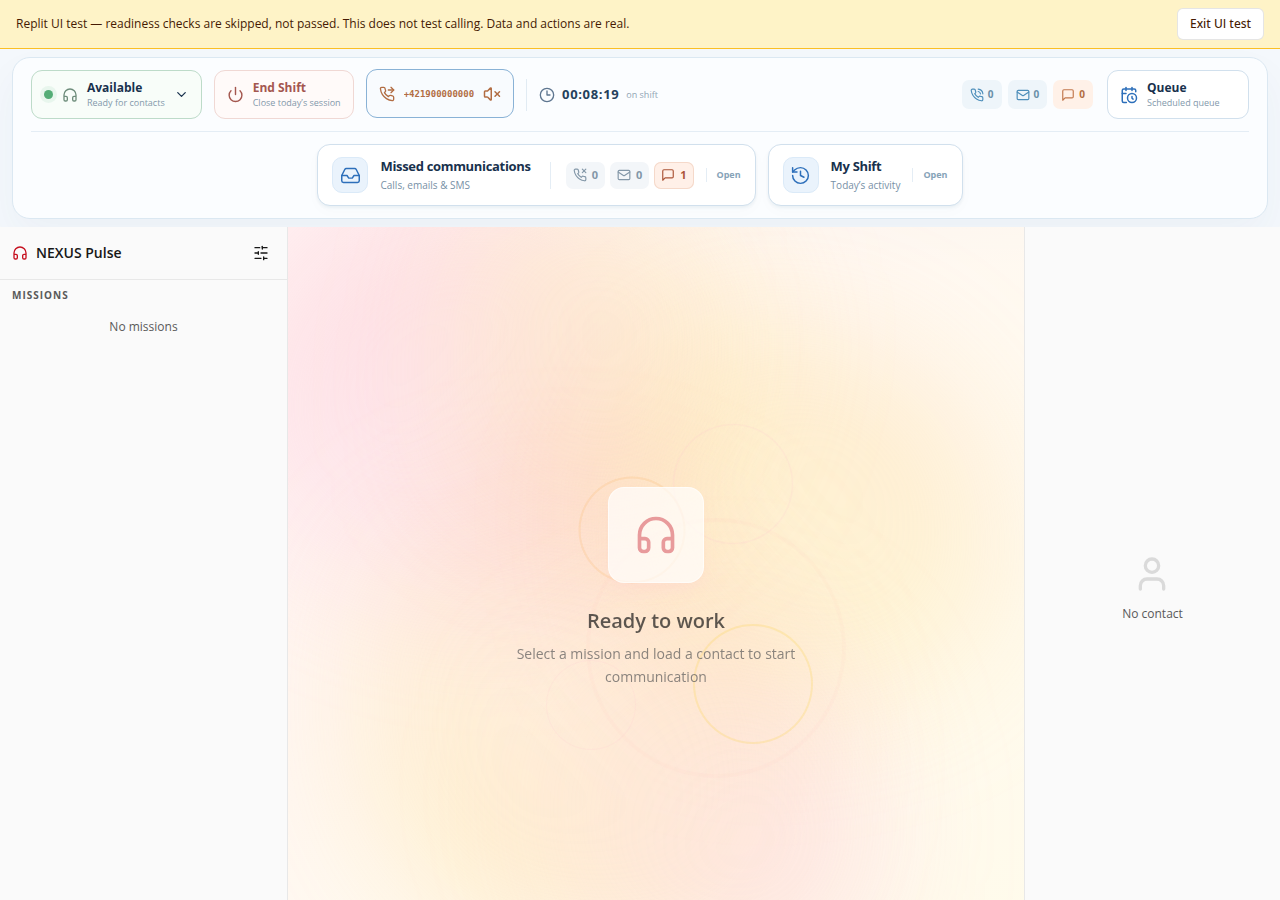
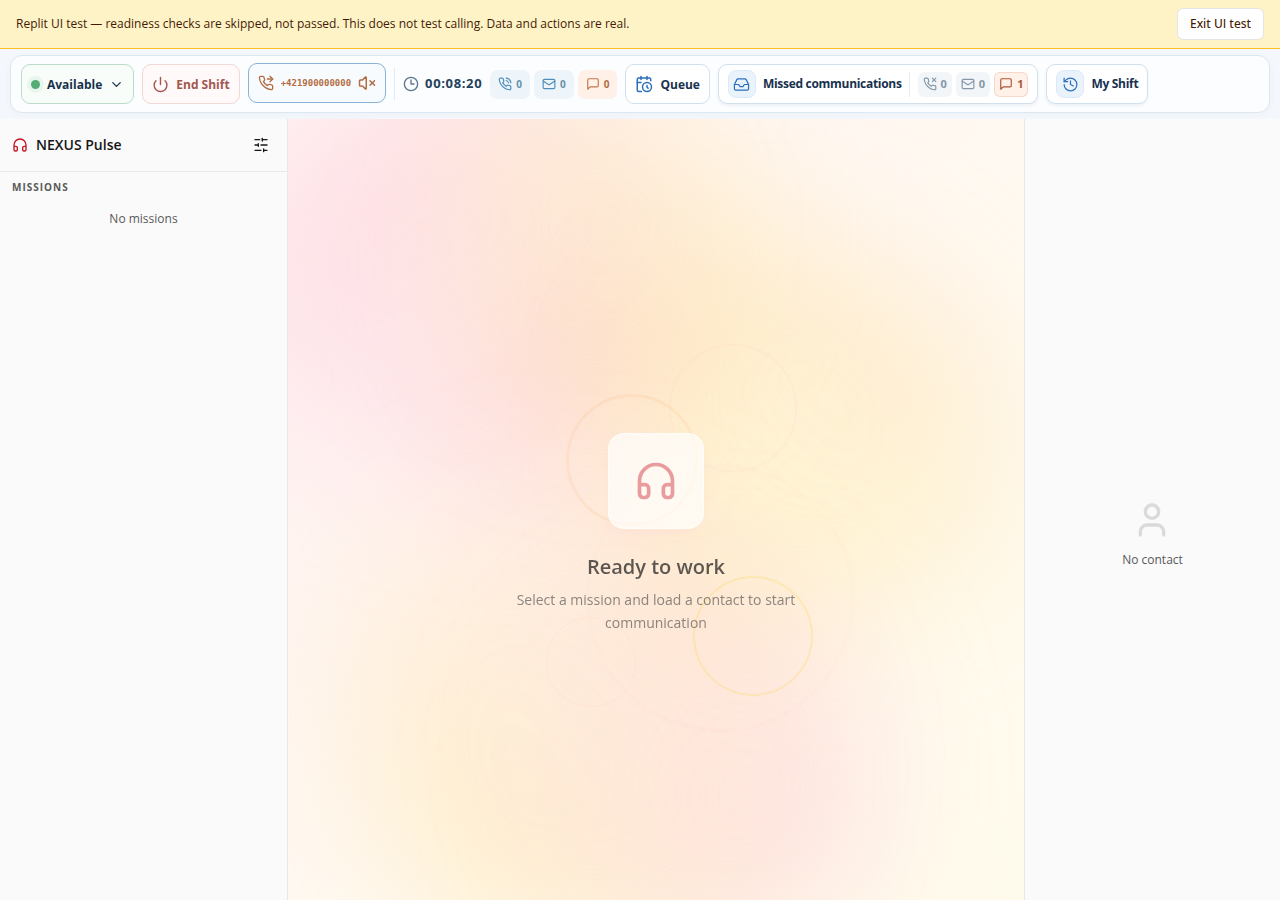
Update pulse toolbar styling and add supporting documentation and assets
Replit-Commit-Author: Agent

diff --git a/client/src/components/agent/agent-toolbar-unified.css b/client/src/components/agent/agent-toolbar-unified.css
@@ -1,24 +1,24 @@
 .agent-toolbar-unified {
   flex: none;
   width: 100%;
-  padding: 8px 12px;
+  padding: 6px 10px;
   background: #f4f8fc;
   color: #18314d;
   font-family: "Open Sans", sans-serif;
 }
 .agent-toolbar-unified *, .agent-toolbar-unified *::before, .agent-toolbar-unified *::after { box-sizing: border-box; }
-.agent-toolbar-unified .pta-toolbar { display: flex; align-items: center; gap: 12px; max-width: 100%; }
-.agent-toolbar-unified .pta-surface { width: 100%; padding: 12px 18px; background: #fbfdff; border: 1px solid #dbe8f2; border-radius: 18px; box-shadow: 0 18px 40px #244e700b; }
-.agent-toolbar-unified .pta-control-row { flex-wrap: wrap; padding-bottom: 12px; border-bottom: 1px solid #e4edf5; }
+.agent-toolbar-unified .pta-surface { display: flex; flex-wrap: wrap; align-items: center; justify-content: flex-start; gap: 8px; width: 100%; padding: 8px 10px; background: #fbfdff; border: 1px solid #dbe8f2; border-radius: 12px; box-shadow: 0 2px 8px #244e7008; }
+.agent-toolbar-unified .pta-control-row,
+.agent-toolbar-unified .pta-shortcuts { display: contents; }
 .agent-toolbar-unified .pta-control,
 .agent-toolbar-unified .pta-queue,
-.agent-toolbar-unified .pta-icon-control { min-height: 49px; display: inline-flex; align-items: center; gap: 9px; padding: 8px 12px; border: 1px solid #d1e0ed; border-radius: 11px; background: #fff; color: #18314d; font-family: inherit; cursor: pointer; text-align: left; transition: border-color .16s, background .16s, transform .16s; }
+.agent-toolbar-unified .pta-icon-control { min-height: 40px; display: inline-flex; align-items: center; gap: 7px; padding: 6px 9px; border: 1px solid #d1e0ed; border-radius: 9px; background: #fff; color: #18314d; font-family: inherit; cursor: pointer; text-align: left; transition: border-color .16s, background .16s, transform .16s; }
 .agent-toolbar-unified .pta-control:hover,
 .agent-toolbar-unified .pta-queue:hover,
 .agent-toolbar-unified .pta-icon-control:hover { border-color: #89b2d6; background: #f8fbfe; transform: translateY(-1px); }
 .agent-toolbar-unified button:focus-visible { outline: 3px solid #8bbce1; outline-offset: 2px; }
 .agent-toolbar-unified .pta-status { border-color: #bddbc9; background: #f8fdf9; }
-.agent-toolbar-unified .pta-status-icon { display: inline-flex; color: #6e8d7b; }
+.agent-toolbar-unified .pta-status-icon { display: none; }
 .agent-toolbar-unified .pta-status-icon svg { width: 16px; height: 16px; }
 .agent-toolbar-unified .pta-status-dot { width: 9px; height: 9px; flex: none; background: #54ad76; border-radius: 50%; box-shadow: 0 0 0 4px #e8f6ed; }
 .agent-toolbar-unified .pta-status-busy { border-color: #ebc6c1; background: #fff9f8; }
@@ -29,7 +29,7 @@
 .agent-toolbar-unified .pta-status-offline .pta-status-dot { background: #8397a8; box-shadow: 0 0 0 4px #edf1f4; }
 .agent-toolbar-unified .pta-end { color: #a4574f; border-color: #f0d8d4; background: #fffaf9; }
 .agent-toolbar-unified .pta-end:hover { background: #fff3f0; border-color: #dfada6; }
-.agent-toolbar-unified .pta-icon-control { width: auto; min-width: 45px; justify-content: center; color: #647d93; }
+.agent-toolbar-unified .pta-icon-control { width: auto; min-width: 38px; justify-content: center; color: #647d93; }
 .agent-toolbar-unified .pta-ringtone-on { color: #42845d; border-color: #bddbc9; }
 .agent-toolbar-unified .pta-forwarding { color: #b26d43; border-color: #efcdb8; }
 .agent-toolbar-unified .pta-forwarding-number { max-width: 86px; overflow: hidden; text-overflow: ellipsis; white-space: nowrap; font: 600 9px ui-monospace, monospace; }
@@ -37,33 +37,33 @@
 .agent-toolbar-unified .pta-control-copy { display: flex; flex-direction: column; gap: 2px; white-space: nowrap; }
 .agent-toolbar-unified .pta-control-copy strong { font-size: 12px; line-height: 15px; font-weight: 700; }
 .agent-toolbar-unified .pta-control-copy span { color: #8399ab; font-size: 9px; line-height: 12px; }
-.agent-toolbar-unified .pta-timer { display: inline-flex; align-items: center; gap: 7px; min-width: 120px; color: #5e7690; }
+.agent-toolbar-unified .pta-timer { display: inline-flex; align-items: center; gap: 6px; color: #5e7690; }
 .agent-toolbar-unified .pta-timer strong { color: #24415c; font-size: 13px; letter-spacing: .05em; font-variant-numeric: tabular-nums; }
 .agent-toolbar-unified .pta-timer span { color: #91a5b5; font-size: 9px; }
-.agent-toolbar-unified .pta-micro-counts { display: flex; align-items: center; gap: 6px; margin-left: auto; }
+.agent-toolbar-unified .pta-micro-counts { display: flex; align-items: center; gap: 4px; margin: 0; }
 .agent-toolbar-unified .pta-micro-counts > span { display: inline-flex; align-items: center; gap: 4px; padding: 7px 8px; color: #6990a9; background: #eef5fa; border-radius: 7px; font-size: 10px; }
 .agent-toolbar-unified .pta-micro-counts span svg { color: #4d8eba; }
 .agent-toolbar-unified .pta-micro-pending { color: #b26d43 !important; background: #fff1e8 !important; }
 .agent-toolbar-unified .pta-micro-pending svg { color: #c2784d !important; }
 .agent-toolbar-unified .pta-quota-blocked { color: #a4574f !important; opacity: .55; box-shadow: inset 0 0 0 1px #e7bdb7; }
-.agent-toolbar-unified .pta-queue { margin-left: 2px; min-width: 142px; position: relative; }
+.agent-toolbar-unified .pta-queue { position: relative; }
 .agent-toolbar-unified .pta-queue > svg { color: #2d6fba; }
 .agent-toolbar-unified .pta-queue > b { min-width: 24px; padding: 3px 6px; color: #fff; background: #c9584d; border-radius: 9px; text-align: center; font-size: 10px; }
 .agent-toolbar-unified .pta-queue-overdue { border-color: #e7b5af; }
 .agent-toolbar-unified .pta-urgency-dot { position: absolute; width: 9px; height: 9px; right: -3px; top: -3px; border: 2px solid #fff; border-radius: 50%; background: #c9584d; animation: pta-urgency 1.5s ease-in-out infinite; }
-.agent-toolbar-unified .pta-shortcuts { display: flex; flex-wrap: wrap; align-items: stretch; justify-content: center; gap: 12px; padding-top: 12px; }
-.agent-toolbar-unified .pta-button { display: inline-flex; align-items: center; gap: 12px; min-height: 62px; padding: 11px 14px; color: #18314d; background: #fff; border: 1px solid #d1e0ed; border-radius: 13px; box-shadow: 0 2px 3px #244e7010, 0 5px 15px #244e7005; cursor: pointer; text-align: left; font-family: inherit; transition: border-color .16s, box-shadow .16s, transform .16s, background .16s; }
+.agent-toolbar-unified .pta-button { display: inline-flex; align-items: center; gap: 7px; min-height: 40px; max-width: 100%; padding: 5px 9px; color: #18314d; background: #fff; border: 1px solid #d1e0ed; border-radius: 9px; box-shadow: 0 2px 3px #244e7010; cursor: pointer; text-align: left; font-family: inherit; transition: border-color .16s, box-shadow .16s, transform .16s, background .16s; }
 .agent-toolbar-unified .pta-button:hover { border-color: #89b2d6; background: #fbfdff; box-shadow: 0 4px 14px #2d6fba15; transform: translateY(-1px); }
 .agent-toolbar-unified .pta-button:active { transform: translateY(0); }
-.agent-toolbar-unified .pta-symbol { width: 36px; height: 36px; flex: none; display: grid; place-items: center; background: #eaf3fc; border: 1px solid #dbeaf8; color: #2d6fba; border-radius: 10px; }
+.agent-toolbar-unified .pta-symbol { width: 28px; height: 28px; flex: none; display: grid; place-items: center; background: #eaf3fc; border: 1px solid #dbeaf8; color: #2d6fba; border-radius: 8px; }
+.agent-toolbar-unified .pta-symbol svg { width: 17px; height: 17px; }
 .agent-toolbar-unified .pta-copy { display: flex; flex-direction: column; gap: 3px; min-width: 0; }
-.agent-toolbar-unified .pta-copy strong { font-size: 13px; font-weight: 700; letter-spacing: -.025em; line-height: 17px; }
+.agent-toolbar-unified .pta-copy strong { font-size: 12px; font-weight: 700; letter-spacing: -.025em; line-height: 16px; }
 .agent-toolbar-unified .pta-copy > span { font-size: 10px; color: #7790a6; line-height: 14px; }
-.agent-toolbar-unified .pta-counts { display: flex; gap: 5px; margin-left: 7px; padding-left: 15px; border-left: 1px solid #e4edf5; }
-.agent-toolbar-unified .pta-counter { display: inline-flex; align-items: center; justify-content: center; gap: 5px; height: 27px; min-width: 37px; padding: 0 7px; border-radius: 7px; background: #f3f6f9; color: #8397a8; font-size: 11px; }
+.agent-toolbar-unified .pta-counts { display: flex; gap: 4px; padding-left: 8px; border-left: 1px solid #e4edf5; }
+.agent-toolbar-unified .pta-counter { display: inline-flex; align-items: center; justify-content: center; gap: 4px; height: 25px; min-width: 30px; padding: 0 5px; border-radius: 6px; background: #f3f6f9; color: #8397a8; font-size: 11px; }
 .agent-toolbar-unified .pta-counter b { font-weight: 700; font-variant-numeric: tabular-nums; }
 .agent-toolbar-unified .pta-counter.pta-pending { color: #ab5437; background: #fff0e8; box-shadow: inset 0 0 0 1px #f5d9ca; }
-.agent-toolbar-unified .pta-open-indicator { padding-left: 10px; color: #86a3b8; border-left: 1px solid #e4edf5; font-size: 9px; font-weight: 700; }
+.agent-toolbar-unified .pta-open-indicator { display: none; }
 .agent-toolbar-unified .pta-active-break { display: inline-flex; align-items: center; gap: 6px; padding: 5px 7px; color: #856721; background: #fff8e5; border: 1px solid #ead59d; border-radius: 9px; font-size: 10px; white-space: nowrap; }
 .agent-toolbar-unified .pta-active-break b { font-family: ui-monospace, monospace; }
 .agent-toolbar-unified .pta-active-break button { display: inline-flex; align-items: center; gap: 3px; padding: 4px 6px; color: #536f87; background: #fff; border: 1px solid #d1e0ed; border-radius: 6px; cursor: pointer; }
@@ -83,32 +83,29 @@
 .pta-status-menu .pta-menu-duration { margin-left: auto; color: #8399ab; font-size: 9px; }
 
 @keyframes pta-urgency { 50% { box-shadow: 0 0 0 5px #c9584d33; } }
-@media (max-width: 1100px) and (min-width: 701px) {
-  .agent-toolbar-unified .pta-control-row { flex-wrap: wrap; gap: 8px; }
-  .agent-toolbar-unified .pta-control,
-  .agent-toolbar-unified .pta-queue,
-  .agent-toolbar-unified .pta-icon-control { min-height: 43px; padding: 6px 9px; }
-  .agent-toolbar-unified .pta-divider { display: none; }
-  .agent-toolbar-unified .pta-timer { min-width: 108px; }
-  .agent-toolbar-unified .pta-micro-counts { margin-left: 0; }
-  .agent-toolbar-unified .pta-queue { min-width: 128px; }
+@media (max-width: 1440px) {
+  .agent-toolbar-unified .pta-control-copy > span,
+  .agent-toolbar-unified .pta-copy > span,
+  .agent-toolbar-unified .pta-timer > span { display: none; }
+}
+@media (max-width: 1150px) {
+  .agent-toolbar-unified .pta-surface { gap: 6px; }
+  .agent-toolbar-unified .pta-divider,
+  .agent-toolbar-unified .pta-symbol { display: none; }
 }
 @media (max-width: 700px) {
   .agent-toolbar-unified { padding: 5px 6px; }
   .agent-toolbar-unified .pta-surface { padding: 8px; border-radius: 13px; }
-  .agent-toolbar-unified .pta-control-row { flex-wrap: wrap; gap: 6px; padding-bottom: 8px; }
   .agent-toolbar-unified .pta-control, .agent-toolbar-unified .pta-queue, .agent-toolbar-unified .pta-icon-control { min-height: 40px; padding: 5px 8px; border-radius: 9px; }
   .agent-toolbar-unified .pta-control-copy span { display: none; }
   .agent-toolbar-unified .pta-divider { display: none; }
-  .agent-toolbar-unified .pta-timer { min-width: auto; flex: 1; justify-content: center; }
+  .agent-toolbar-unified .pta-timer { min-width: auto; }
   .agent-toolbar-unified .pta-timer span { display: none; }
-  .agent-toolbar-unified .pta-micro-counts { order: 5; width: auto; margin-left: 0; flex: 1; justify-content: center; }
+  .agent-toolbar-unified .pta-micro-counts { width: auto; margin-left: 0; }
   .agent-toolbar-unified .pta-micro-counts > span { padding: 5px 6px; }
-  .agent-toolbar-unified .pta-queue { order: 6; min-width: 105px; }
   .agent-toolbar-unified .pta-forwarding-number { display: none; }
-  .agent-toolbar-unified .pta-active-break { order: 4; width: 100%; justify-content: center; white-space: normal; }
-  .agent-toolbar-unified .pta-shortcuts { gap: 6px; padding-top: 8px; }
-  .agent-toolbar-unified .pta-button { flex: 1; min-width: 0; min-height: 48px; padding: 6px 8px; gap: 7px; }
+  .agent-toolbar-unified .pta-active-break { max-width: 100%; flex-wrap: wrap; white-space: normal; }
+  .agent-toolbar-unified .pta-button { min-width: 0; padding: 6px 8px; gap: 7px; }
   .agent-toolbar-unified .pta-symbol { width: 29px; height: 29px; border-radius: 8px; }
   .agent-toolbar-unified .pta-symbol svg { width: 17px; }
   .agent-toolbar-unified .pta-copy > span, .agent-toolbar-unified .pta-open-indicator { display: none; }

diff --git a/e2e/pulse-toolbar-real-app.spec.ts b/e2e/pulse-toolbar-real-app.spec.ts
@@ -114,6 +114,16 @@ test("unified toolbar keeps status, break, forwarding, ringtone and end-shift be
   await ringtone.click();
   await expect(ringtone).toHaveAttribute("aria-pressed", "false");
   await assertToolbarBounds(page);
+  // Desktop toolbar must be ONE row, with counters directly after the timer.
+  const rowControls = await Promise.all(
+    ["dropdown-agent-status", "button-end-session", "button-toggle-inbound-ringtone", "btn-open-scheduled-queue", "btn-open-abandoned-calls", "btn-open-my-activity"]
+      .map(id => page.getByTestId(id).boundingBox()),
+  );
+  const centers = rowControls.map(rect => rect!.y + rect!.height / 2);
+  expect(Math.max(...centers) - Math.min(...centers)).toBeLessThanOrEqual(2);
+  const timer = await page.locator(".agent-toolbar-unified .pta-timer").boundingBox();
+  const counters = await page.locator(".agent-toolbar-unified .pta-micro-counts").boundingBox();
+  expect(counters!.x - (timer!.x + timer!.width)).toBeLessThanOrEqual(10);
   await page.screenshot({ path: "screenshots/pulse-toolbar-desktop.png", fullPage: false });
   await status.click();
   await page.getByTestId("menu-item-status-busy").click();

diff --git a/.agents/memory/MEMORY.md b/.agents/memory/MEMORY.md
@@ -90,7 +90,7 @@
 - [Agent priority queue authority](agent-priority-queue-authority.md) — personal priority ordering applies after campaign eligibility and must drive sidebar, mobile, Auto, and Next from one queue.
 - [Rescheduled inbound callback visibility](inbound-callback-visibility.md) — pending callback queries must not filter by creation day; day grouping uses Europe/Bratislava callback time.
 - [Pulse fullscreen modal verification](pulse-fullscreen-modal-verification.md) — verify real modal components under fullscreen ancestor styles; isolated canvas and login screenshots miss hidden controls.
-- [Pulse toolbar design approval](pulse-toolbar-design-approval.md) — the approved Unified toolbar is a light-blue two-row panel; adapt sample copy to real actions, not the other way around.
+- [Pulse toolbar design approval](pulse-toolbar-design-approval.md) — user corrected the layout to ONE compact row; no auto-spacer after the shift timer; preserve real action semantics.
 - [Clone parity semantics](clone-parity-testing.md) — normalized equality alone can hide unchanged IDs; test persisted representations and fresh identities separately.
 - [Bulk filter parity](medical-partner-bulk-filter-parity.md) — sharing the drawer is insufficient; lists and bulk assignment must share matching semantics and bind confirmation to the complete preview.
 - [Priority search design](priority-search-design-approval.md) — approved identity-rich results explain the match while preserving every operational badge and full-queue context.

diff --git a/.agents/memory/pulse-toolbar-design-approval.md b/.agents/memory/pulse-toolbar-design-approval.md
@@ -3,8 +3,8 @@ name: Pulse toolbar design approval
 description: Approved visual direction and limits when translating the toolbar mockup into the working application.
 ---
 
-Preserve the approved light-blue Unified two-row toolbar: session controls and activity above, Missed communications and My Shift below. Empty missed-channel counts stay neutral; pending counts receive emphasis.
+Preserve the light-blue Unified styling, but keep the desktop toolbar in ONE compact row with consistent small gaps. Wrap only when the available width genuinely requires it. Empty missed-channel counts stay neutral; pending counts receive emphasis.
 
-**Why:** The user explicitly approved this direction for the whole upper toolbar after comparing it on the canvas. It is not a request to change telephony, queue semantics, or the separate mobile workspace.
+**Why:** After seeing the implementation on 2026-09-18, the user explicitly rejected the two-row layout and the large gap after the shift timer. This correction supersedes the canvas layout approval. It is not a request to change telephony, queue semantics, or the separate mobile workspace.
 
 **How to apply:** Keep the approved canvas source intact. Translate illustrative copy to actual functionality: Queue opens scheduled contacts, not an inbound line; the audio toggle controls incoming ringing, not all notifications. Verify conditional break/forwarding content and wider translations in the real fullscreen app, not just the short English mockup.
